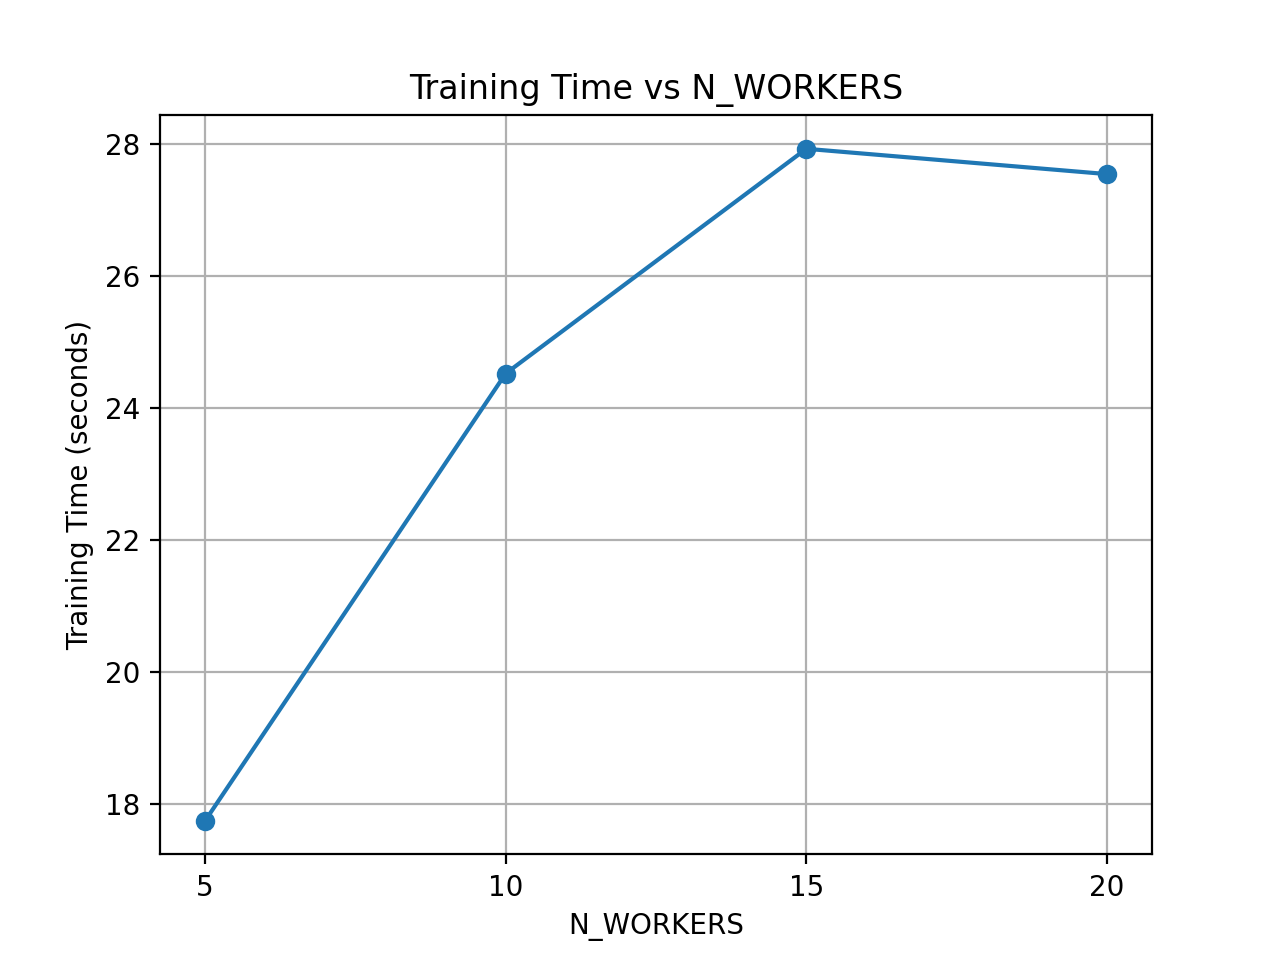
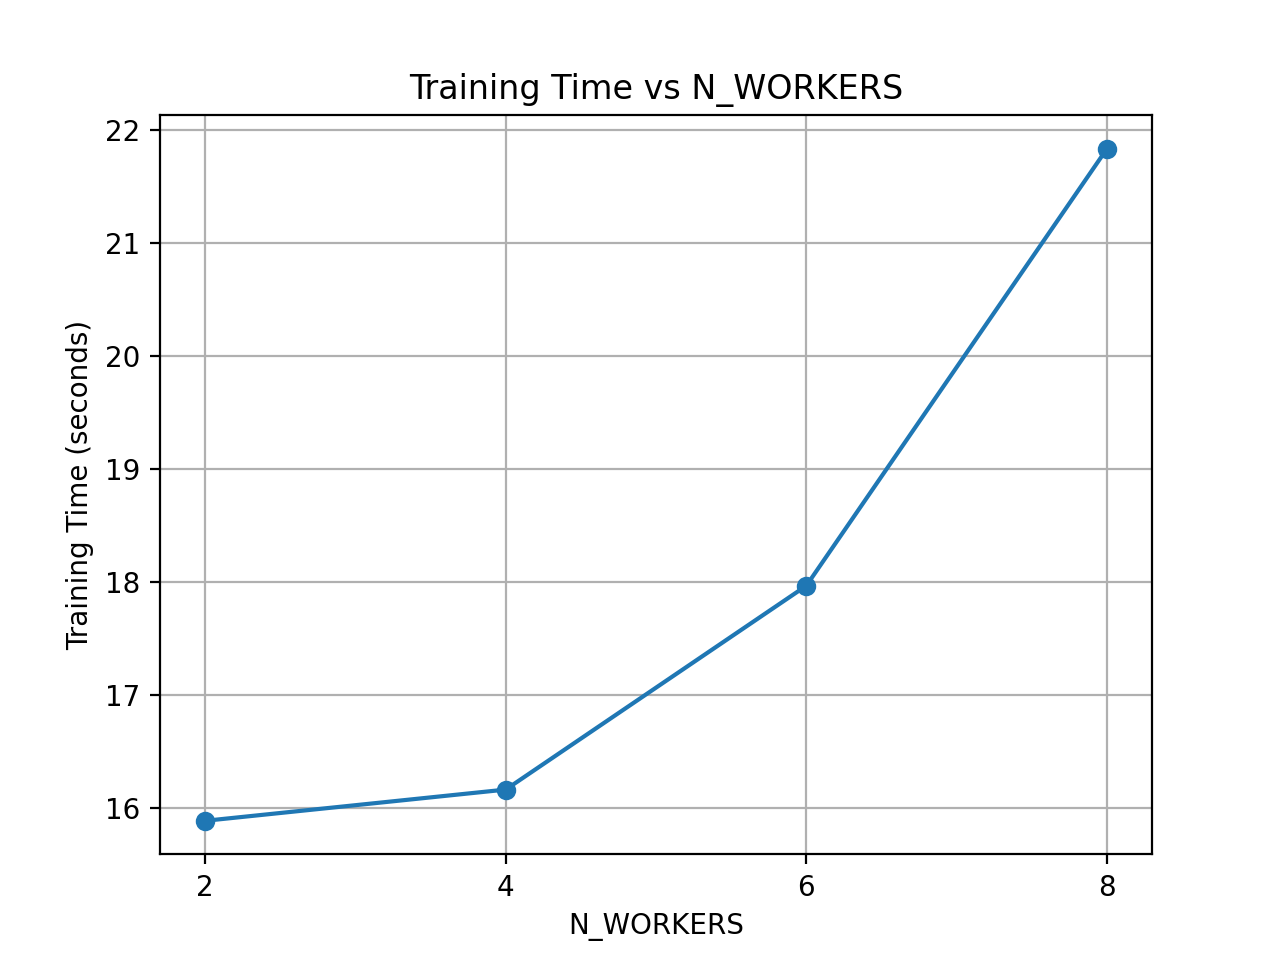
VV

diff --git a/java/src/main/java/pso/Coordinator.java b/java/src/main/java/pso/Coordinator.java
@@ -6,7 +6,6 @@ import org.apache.kafka.streams.*;
 import org.apache.kafka.streams.kstream.Consumed;
 import org.apache.kafka.streams.kstream.Produced;
 import org.apache.kafka.clients.consumer.ConsumerConfig;
-import org.apache.kafka.streams.KafkaStreams;
 import org.apache.kafka.streams.kstream.KStream;
 import org.apache.kafka.streams.kstream.KTable;
 import org.apache.kafka.streams.kstream.Materialized;
@@ -18,7 +17,6 @@ import org.apache.kafka.streams.processor.TaskMetadata;
 import org.apache.kafka.streams.kstream.Grouped;
 
 import org.apache.kafka.clients.producer.ProducerConfig;
-import org.apache.kafka.streams.StreamsConfig;
 
 import com.fasterxml.jackson.core.type.TypeReference;
 import com.fasterxml.jackson.databind.ObjectMapper;
@@ -232,23 +230,24 @@ public class Coordinator implements Runnable {
             }
         });
 
-        // Watcher thread: waits for desired accuracy, then stops the streams ===========================================
-        // Thread controlThread = new Thread(() -> {
-        //     try {
-        //         while (!control.isStopRequested()) {
-        //             Thread.sleep(500); // poll every 500ms
-        //         }
-        //         System.out.println("[Coordinator] Stopping because desired accuracy was reached.");
-        //         streams.close();
-        //     } catch (InterruptedException ie) {
-        //         Thread.currentThread().interrupt();
-        //     } finally {
-        //         latch.countDown();
-        //     }
-        // }, "coordinator-control-thread");
+        // ===============================================================================================================
 
-        // controlThread.setDaemon(true);
-        // controlThread.start();
+        Thread controlThread = new Thread(() -> {
+            try {
+                while (!control.isStopRequested()) {
+                    Thread.sleep(200);
+                }
+                System.out.println("[Coordinator] Stop requested -> closing streams");
+                streams.close(Duration.ofSeconds(10));
+            } catch (InterruptedException ie) {
+                Thread.currentThread().interrupt();
+            } finally {
+                latch.countDown();
+            }
+        }, "coordinator-control-thread");
+
+        controlThread.setDaemon(true);
+        controlThread.start();
 
         // ===============================================================================================================
 
@@ -281,7 +280,7 @@ public class Coordinator implements Runnable {
                 }
             }
 
-            latch.await(); 
+            latch.await(); // wait until Kafka Streams has consumed the test topic and you have exited 
 
         } catch (Throwable e) {
             System.out.println("[Coordinator] Error in KafkaStreams: " + e.getMessage());

diff --git a/java/src/main/java/pso/Worker.java b/java/src/main/java/pso/Worker.java
@@ -19,7 +19,6 @@ import org.apache.kafka.streams.processor.TaskMetadata;
 import org.apache.kafka.common.serialization.Serde;
 
 import org.apache.kafka.clients.producer.ProducerConfig;
-import org.apache.kafka.streams.StreamsConfig;
 
 import java.util.Properties;
 import java.util.concurrent.CountDownLatch;
@@ -48,7 +47,8 @@ public class Worker implements Runnable {
     private String keyName;
 
     private final CustomLogger logger;
-    private final CoordinatorControl control;
+    private final CoordinatorControl control;   // the coordinator is the one who finished when he has exhausted all the testing data
+                                                // the he requestStop on the control and everything closes
 
     public Worker(int workerId) {
 
@@ -155,12 +155,9 @@ public class Worker implements Runnable {
             e.printStackTrace();
         });
 
-        CountDownLatch latch = new CountDownLatch(1);
-
         Runtime.getRuntime().addShutdownHook(new Thread(() -> {
             System.out.println("[Worker " + workerId + "] Shutting down KafkaStreams");
             streams.close();
-            latch.countDown();
         }));
 
         try {
@@ -195,12 +192,9 @@ public class Worker implements Runnable {
             System.out.println("[Worker " + workerId + " ] Stopping because desired accuracy was reached.");
             streams.close();
 
-            latch.await();
-
         } catch (Throwable e) {
             System.out.println("[Worker " + workerId + "] Error in KafkaStreams: " + e.getMessage());
             streams.close();
-            latch.countDown();
         }
 
         System.out.println("[Worker " + workerId + "] Exiting run()");

diff --git a/java/src/main/java/pso/Simulation.java b/java/src/main/java/pso/Simulation.java
@@ -34,9 +34,9 @@ public class Simulation {
             System.out.println("\n[Shutdown] JVM is stopping, workers will close.");
         }));
 
-        coordinatorThread.join(); 
+        coordinatorThread.join(); // if finished every worker waits on the coordinator
 
         System.out.println("============== Simulation stop ==============");
-        System.exit(1);
+        // System.exit(0);
     }
 }

diff --git a/java/src/main/java/pso/WorkerTransformer.java b/java/src/main/java/pso/WorkerTransformer.java
@@ -29,8 +29,6 @@ public class WorkerTransformer implements Transformer<String, DataMessage, KeyVa
 
     private final int workerId;
 
-    private static final ObjectMapper MAPPER = new ObjectMapper();
-
     private static Config cfg = Config.getInstance();
     private final int TRAIN_SIZE = cfg.TRAIN_SIZE;
     private final int N_BATCHES = cfg.N_BATCHES;  

diff --git a/ReadMe.md b/ReadMe.md
@@ -75,8 +75,9 @@ dos2unix run_streams.sh
 ./run_streams.sh --reset
 
 ```
-
-## Partitioning: =========================================================
+## =====================================================================================================================
+## =====================================================================================================================
+## Partitioning: =======================================================================================================
 
 N_WORKERS < N_PARTITIONS is not a problem, because if N_PARTITIONS = 40, then:
     5 workers ⇒ each gets ~8 partitions (if 40 partitions)
@@ -279,4 +280,22 @@ Input input-weights-topic:
     - Diagramm 1: y-axis: Accuracy - N_Workers
     - Diagramm 2: y-axis: Training Time - N_Workers
 
-- Run for N_Workers = [5, 10, 15, 20]
+ - Run for N_Workers = [5, 10, 15, 20]
+ 
+ - Performance Measurements:
+    - htop (shows logical CPUs and ||| represent CPU time usage on each logical CPU)
+        - 6 physical cores × 2 threads = 12 logical CPUs
+        - 12 physical cores × 1 thread = 12 logical CPUs
+        - use <code>lscpu</code> to evaluate CPU number and number of threads
+            - number of physical cores: Core(s) per socket: 6
+            - number of threads on its core: Thread(s) per core: 2
+
+    - nvidia-smi -l 1
+
+ - Performance Theory:
+    - True parallelism comes from CPU cores
+    - Swap = “RAM overflow to disk” (very slow), if Swap and RAM is huge => problem
+
+ - Kill Zombie Java processes:
+    - sudo pkill -2 java
+    - ps -eo pid,ppid,cmd,%mem,%cpu --sort=-%mem | head -n 25
